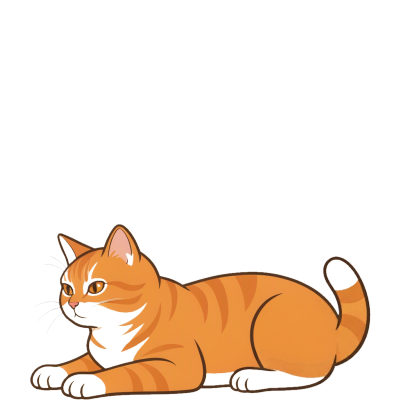
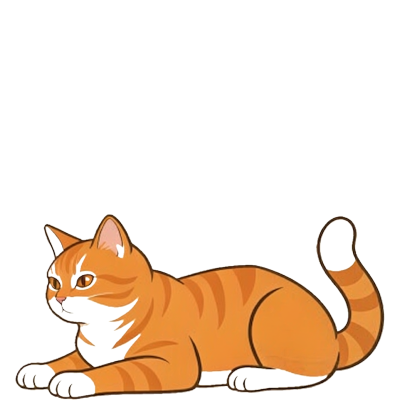
fix(pet): restore the tail length on the tail-flick frame
The earlier tail-up edit shortened the whole tail instead of just lifting
the tip, so tail-flick/01 read as a stumpy cat next to lying-idle.

Length is restored against lying-idle with an image edit, so no video is
regenerated. Scaling is matched on the paw spread rather than the total
height: height includes the tail, so a longer tail shrinks the whole cat
and that is exactly how the first attempt went wrong.

Changed region(s): [[0.03, 0.54, 0.96, 1.0]]

diff --git a/docs/pet-video-prompts.md b/docs/pet-video-prompts.md
@@ -70,6 +70,8 @@ Smooth, seamless 5-second loop. No text, no watermark, no shadow on the ground, 
 - 参考图：趴姿用 `lying-idle.png`，站姿用 `walk.png`，身份检查用 `face-closeup.png`。
 - 后处理：按背景色距离抠像（不用 HSV 色带，容易漏边）→ 统一缩放 → 每帧底边 `y=399`、中心 `x=200` 导出 400×400 RGBA。
 - 尺寸基准（实测自运行时帧）：趴 176 px、坐 208 px、站 240 px、伸展 291 px、睡球 148 px。运行时把 400×400 图按 `Stretch="Uniform"` 画进 200 DIP 方格，**不做尺寸归一**，所以导出尺寸就是唯一杠杆。
+- **尾巴长度会变的帧不能按总高度归一**：总高度含尾巴，尾巴一变长缩放比就变小、整只猫跟着缩水。改用刚性部位——取剪影最低 18% 那一带的横向宽度（四爪张开宽度）作基准。`tail-flick/01` 和 `annoyed` 的尾巴修正都踩过这个坑。
+- 站姿参考只能用 `walk.png`（仅限 `settle` 的近景过渡）或 `_refs/stand-tail-neutral.png`；**`poses/stand.png` 不能用作站姿参考**，它的尾巴是细长无白尖的抽帧缺陷。
 
 ### settle（P0-1）
 
@@ -127,7 +129,7 @@ Smooth, seamless 5-second loop. No text, no watermark, no shadow on the ground, 
 | 动作 | 源（中性底统一放 `interaction/_refs/`） | 帧 | 帧数 | 每帧 | 类型 |
 | --- | --- | --- | --- | --- | --- |
 | `ear-flick` | `_refs/lying-neutral.png` + `p0-3-ear-tail/ear-flick-01-ear-back.png` | `ear-flick/00-01.png` 341×176 | 2 | 150 ms | 一次性 |
-| `tail-flick` | `_refs/lying-neutral.png` + `p0-3-ear-tail/tail-flick-01-tail-up.png` | `tail-flick/00-01.png` 341×176 | 2 | 150 ms | 一次性 |
+| `tail-flick` | `_refs/lying-neutral.png` + `p0-3-ear-tail/tail-flick-01-tail-up.png` | `tail-flick/00.png` 341×176 · `tail-flick/01.png` 370×186 | 2 | 150 ms | 一次性 |
 | `greet` | `_refs/stand-tail-neutral.png` + `p0-5-greet/greet-01-blink-shut.png` | `greet/00-01.png` 267×240 | 2 | 300 ms | 一次性 |
 | `look-up` | `_refs/lying-neutral.png` + `p0-6-look-up/look-up-head-raised.png` | `look-up/00.png` 341×181 | 1 | 保持 | 一次性 |
 
